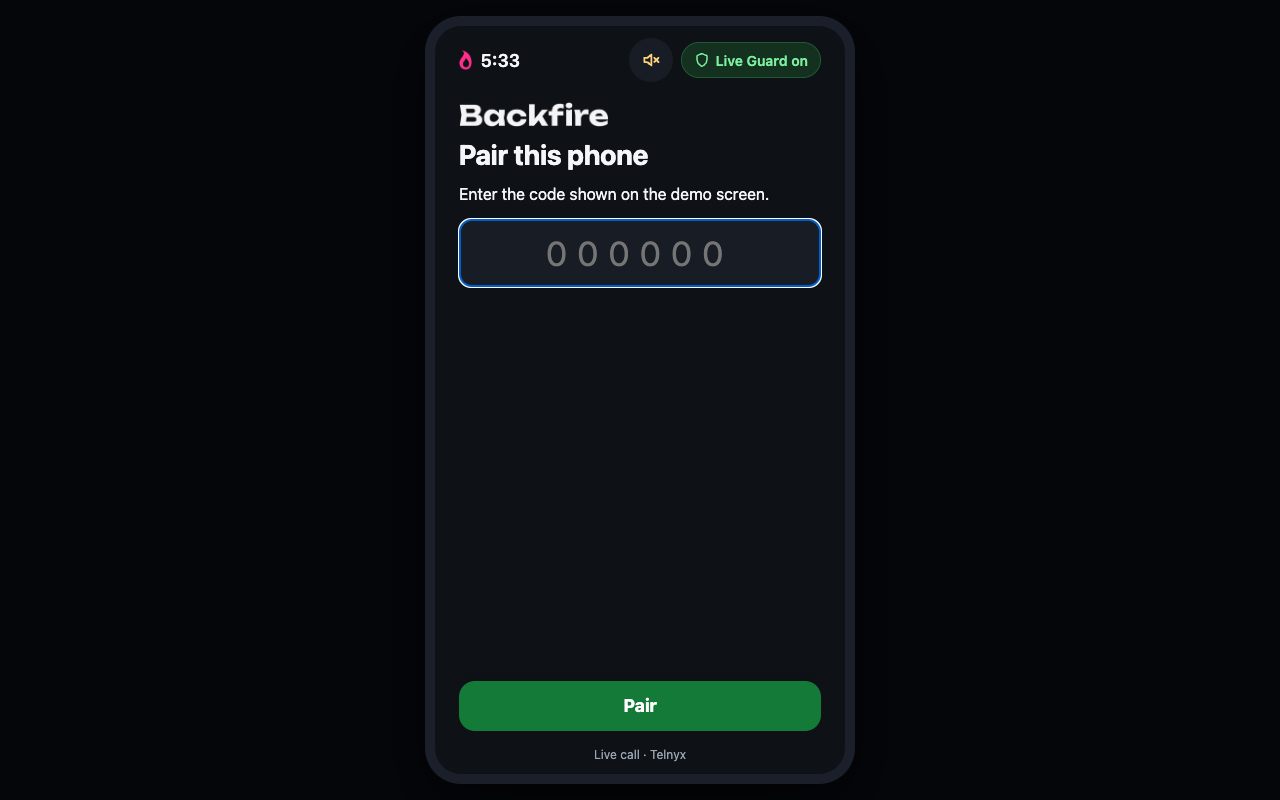
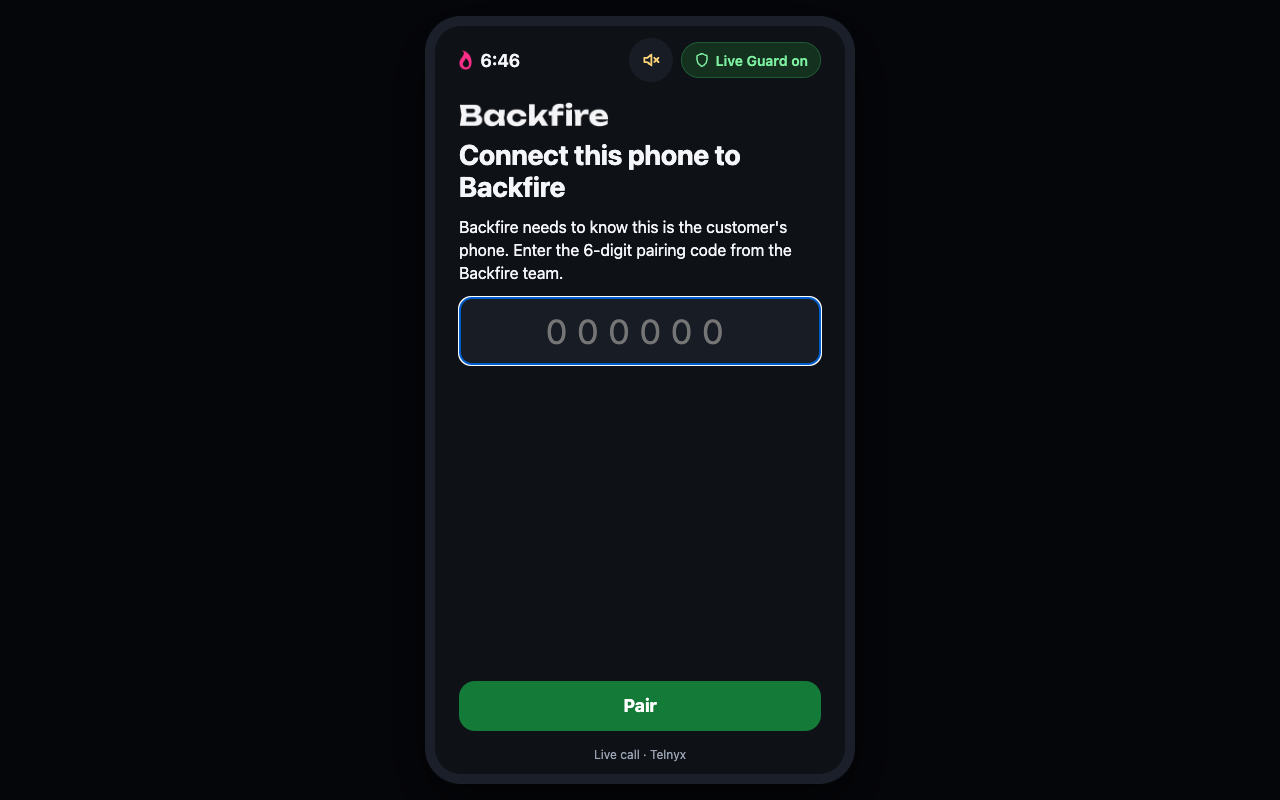
P1 copy: pairing screen 'Connect this phone to Backfire' + clearer body (no 'demo screen'); error texts matched; pair screenshots regenerated

Changed region(s): [[0.3438, 0.1875, 0.6562, 0.375], [0.3438, 0.4062, 0.6562, 0.4688], [0.375, 0.0625, 0.4062, 0.0938]]

diff --git a/web/customer/ui.js b/web/customer/ui.js
@@ -188,7 +188,7 @@
       toDns("Your voice is set up" + (HUB ? "" : " (simulated)") + (quality === "ok" ? " (recording quality: good)" : "") + ". Backfire is on. It keeps only a short voice sample, used only if you press Fire Back. You can delete it any time in Protection.");
     } catch (e) {
       console.log("[backfire] enroll failed", String(e)); done();
-      $("recStatus").textContent = /\b401\b/.test(String(e)) ? "Please pair this phone first, then try again." : "Your voice wasn't saved. Press Save to try again, or skip to use a synthetic voice.";   // handled errors stay out of Maria's face; BF.onUnauthorized shows the pair screen itself
+      $("recStatus").textContent = /\b401\b/.test(String(e)) ? "Please connect this phone to Backfire first, then try again." : "Your voice wasn't saved. Press Save to try again, or skip to use a synthetic voice.";   // handled errors stay out of Maria's face; BF.onUnauthorized shows the pair screen itself
     }
   }
   $("recSave").onclick = () => { if (blob) enroll(blob); };

diff --git a/web/customer/index.html b/web/customer/index.html
@@ -221,8 +221,8 @@ if (!Element.prototype.replaceChildren) Element.prototype.replaceChildren = func
   <section id="pairView" class="screen left" hidden>
     <div class="step-body">
       <img class="wordmark" src="assets/backfire-wordmark.png" alt="Backfire" width="150" height="25">
-      <h1>Pair this phone</h1>
-      <p class="body">Enter the code shown on the demo screen.</p>
+      <h1>Connect this phone to Backfire</h1>
+      <p class="body">Backfire needs to know this is the customer's phone. Enter the 6-digit pairing code from the Backfire team.</p>
       <input id="pairPin" inputmode="numeric" autocomplete="one-time-code" maxlength="12" aria-label="Pairing code" placeholder="000000">
       <p class="sub" id="pairMsg" role="status"></p>
     </div>

diff --git a/web/customer/pair.js b/web/customer/pair.js
@@ -20,7 +20,7 @@
       try { localStorage.setItem("bf.device", j.device_token); } catch (e) {}
       location.reload();                                              // restart cleanly with the token (voip token fetch too)
     } catch (e) {
-      $("pairMsg").textContent = String(e.message) === "429" ? "Too many tries. Wait a minute." : "That code did not work. Check the demo screen.";
+      $("pairMsg").textContent = String(e.message) === "429" ? "Too many tries. Wait a minute." : "That code did not work. Check it with the Backfire team.";
       $("pairBtn").disabled = false;
     }
   }

diff --git a/docs/app-screens/README.md b/docs/app-screens/README.md
@@ -8,7 +8,7 @@ Files: `index.html` markup, `style.css` look, `app.js` call screen + events, `ui
 
 | # | Screen | Triggered by | Edit |
 |---|---|---|---|
-| 01 | Pair this phone | hub answers 401 (no device token) | `index.html #pairView`, `pair.js`, `style.css #pairView` |
+| 01 | Connect this phone to Backfire (pairing) | hub answers 401 (no device token) | `index.html #pairView`, `pair.js`, `style.css #pairView` |
 | 02 | Onboarding 1: Turn on Backfire | first launch after pairing | `index.html #step1`, `ui.js` (setup) |
 | 03 | Onboarding 2: voice consent (I agree / Skip, use a synthetic voice) | Turn on, or Protection > Set up my voice | `index.html #step2`, `ui.js` |
 | 04 | Onboarding 3: read-aloud, idle | I agree | `index.html #stepRec`, `ui.js` (PARAS, newParagraph) |
